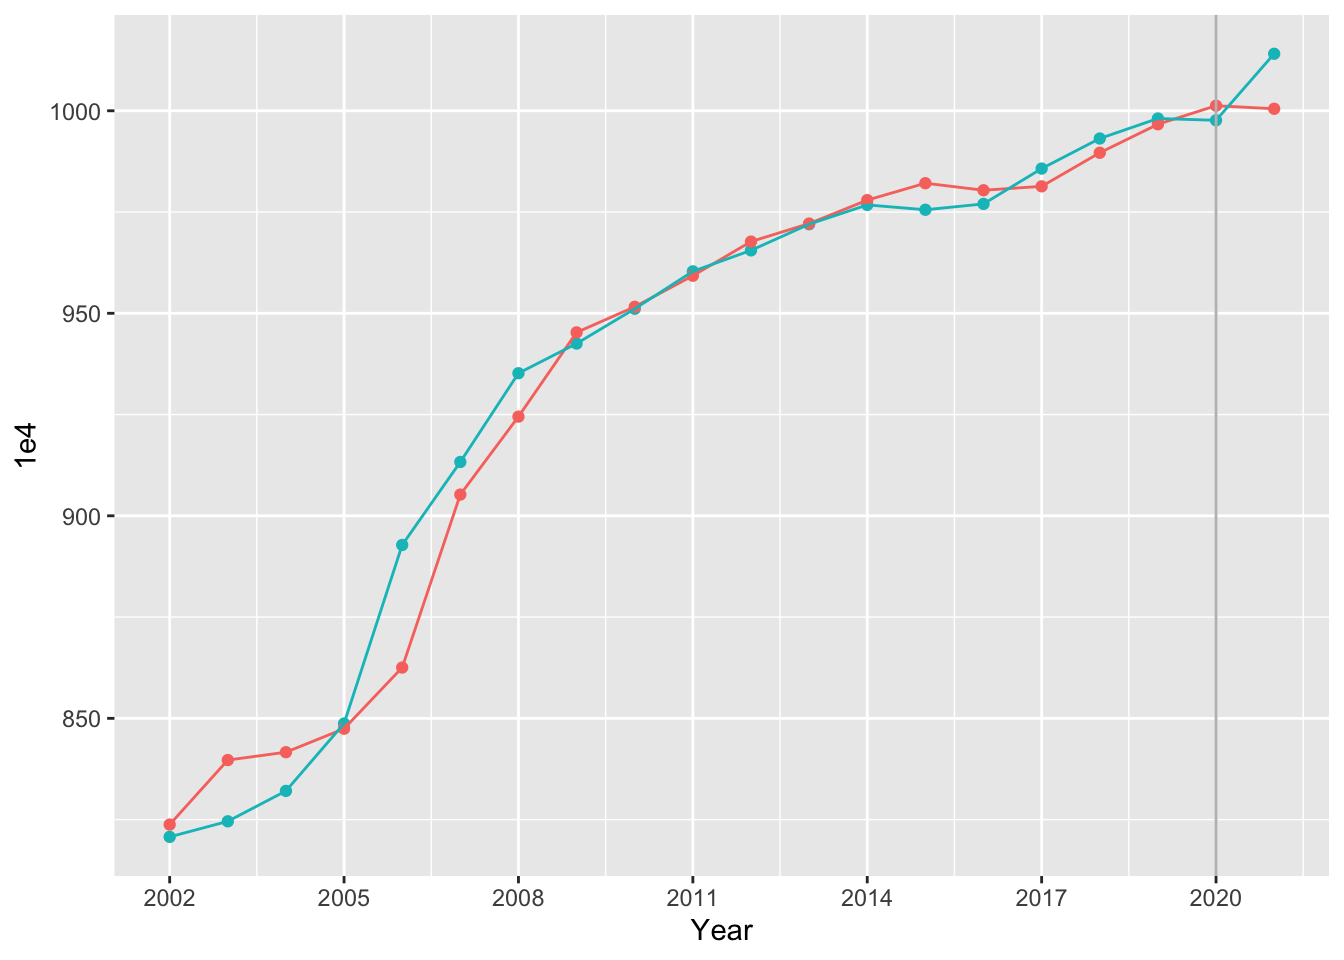
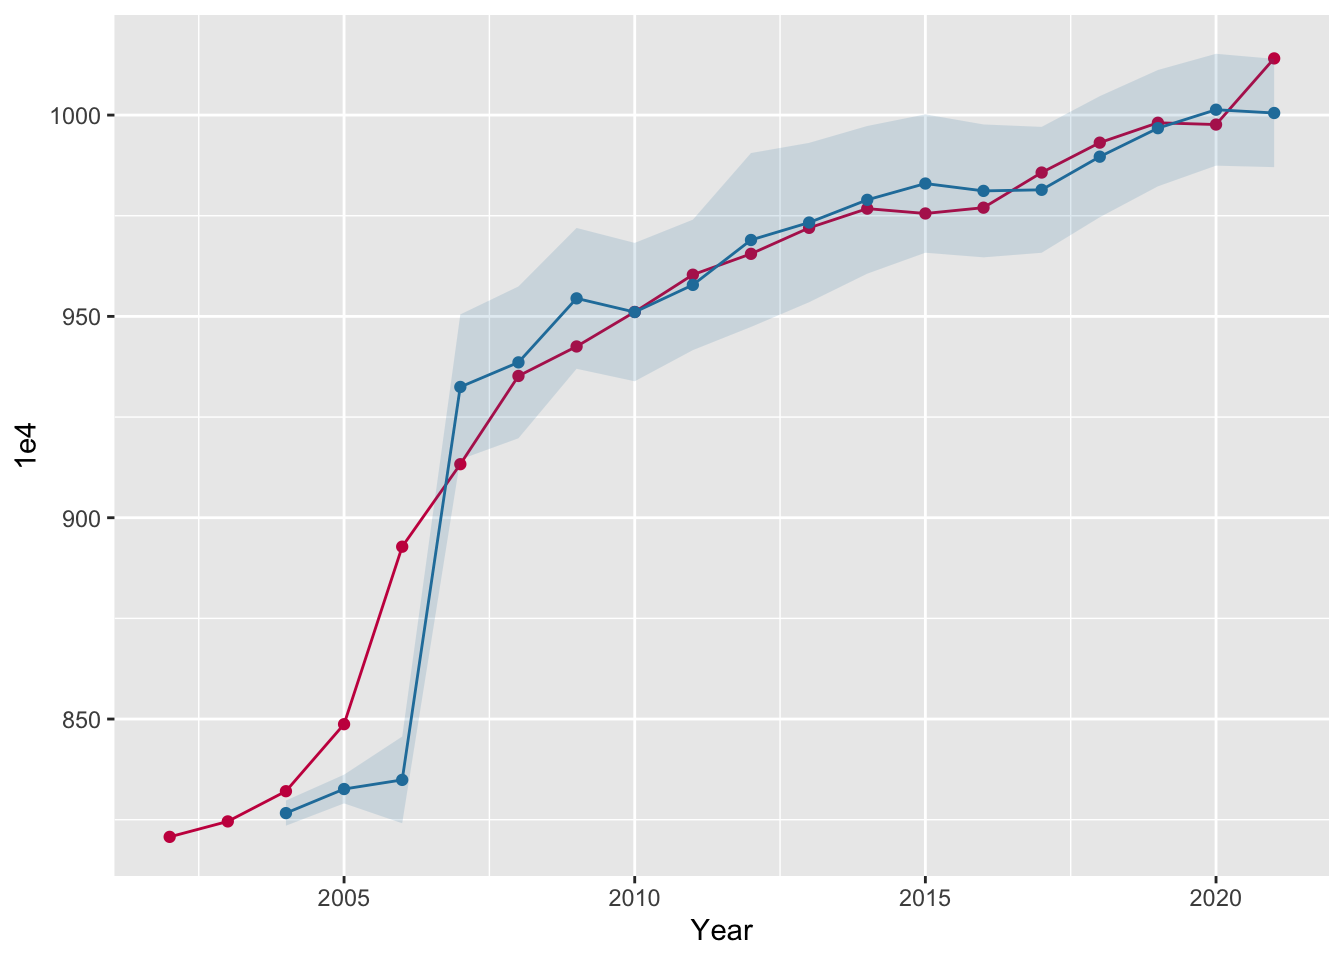
更正预测值
原预测值不是基于训练集，而是全部样本

diff --git a/content/post/2022-03-27-covid19/index.html b/content/post/2022-03-27-covid19/index.html
@@ -74,7 +74,7 @@ Figure 1: The reported deaths(from all causes)
   mutate_all(~dat[[20,&quot;death_num&quot;]] - .) %&gt;%
   flextable::flextable() %&gt;% 
   flextable::colformat_num(digits = 2) </code></pre>
-<template id="1f220c6f-f516-4fd0-94f4-a12f910b3691"><style>
+<template id="b929a59c-c3c0-4499-95e5-27eb7e52a0bf"><style>
 .tabwid table{
   border-spacing:0px !important;
   border-collapse:collapse;
@@ -108,12 +108,12 @@ Figure 1: The reported deaths(from all causes)
 .tabwid table tr {
 background-color: transparent;
 }
-</style><div class="tabwid"><style>.cl-ebe4d488{}.cl-ebd9f900{font-family:'Helvetica';font-size:11pt;font-weight:normal;font-style:normal;text-decoration:none;color:rgba(0, 0, 0, 1.00);background-color:transparent;}.cl-ebda1b92{margin:0;text-align:right;border-bottom: 0 solid rgba(0, 0, 0, 1.00);border-top: 0 solid rgba(0, 0, 0, 1.00);border-left: 0 solid rgba(0, 0, 0, 1.00);border-right: 0 solid rgba(0, 0, 0, 1.00);padding-bottom:5pt;padding-top:5pt;padding-left:5pt;padding-right:5pt;line-height: 1;background-color:transparent;}.cl-ebda64e4{width:54pt;background-color:transparent;vertical-align: middle;border-bottom: 2pt solid rgba(102, 102, 102, 1.00);border-top: 0 solid rgba(0, 0, 0, 1.00);border-left: 0 solid rgba(0, 0, 0, 1.00);border-right: 0 solid rgba(0, 0, 0, 1.00);margin-bottom:0;margin-top:0;margin-left:0;margin-right:0;}.cl-ebda6516{width:54pt;background-color:transparent;vertical-align: middle;border-bottom: 2pt solid rgba(102, 102, 102, 1.00);border-top: 2pt solid rgba(102, 102, 102, 1.00);border-left: 0 solid rgba(0, 0, 0, 1.00);border-right: 0 solid rgba(0, 0, 0, 1.00);margin-bottom:0;margin-top:0;margin-left:0;margin-right:0;}</style><table class='cl-ebe4d488'>
-<thead><tr style="overflow-wrap:break-word;"><td class="cl-ebda6516"><p class="cl-ebda1b92"><span class="cl-ebd9f900">Point Forecast</span></p></td><td class="cl-ebda6516"><p class="cl-ebda1b92"><span class="cl-ebd9f900">Lo 80</span></p></td><td class="cl-ebda6516"><p class="cl-ebda1b92"><span class="cl-ebd9f900">Hi 80</span></p></td><td class="cl-ebda6516"><p class="cl-ebda1b92"><span class="cl-ebd9f900">Lo 95</span></p></td><td class="cl-ebda6516"><p class="cl-ebda1b92"><span class="cl-ebd9f900">Hi 95</span></p></td></tr></thead><tbody><tr style="overflow-wrap:break-word;"><td class="cl-ebda64e4"><p class="cl-ebda1b92"><span class="cl-ebd9f900">13.55887</span></p></td><td class="cl-ebda64e4"><p class="cl-ebda1b92"><span class="cl-ebd9f900">27.00892</span></p></td><td class="cl-ebda64e4"><p class="cl-ebda1b92"><span class="cl-ebd9f900">0.10883</span></p></td><td class="cl-ebda64e4"><p class="cl-ebda1b92"><span class="cl-ebd9f900">34.12894</span></p></td><td class="cl-ebda64e4"><p class="cl-ebda1b92"><span class="cl-ebd9f900">-7.011193</span></p></td></tr></tbody></table></div></template>
-<div class="flextable-shadow-host" id="8beecf47-0300-465b-bab6-3299da01bc8c"></div>
+</style><div class="tabwid"><style>.cl-baf643e8{}.cl-bae7e26c{font-family:'Helvetica';font-size:11pt;font-weight:normal;font-style:normal;text-decoration:none;color:rgba(0, 0, 0, 1.00);background-color:transparent;}.cl-bae835c8{margin:0;text-align:right;border-bottom: 0 solid rgba(0, 0, 0, 1.00);border-top: 0 solid rgba(0, 0, 0, 1.00);border-left: 0 solid rgba(0, 0, 0, 1.00);border-right: 0 solid rgba(0, 0, 0, 1.00);padding-bottom:5pt;padding-top:5pt;padding-left:5pt;padding-right:5pt;line-height: 1;background-color:transparent;}.cl-bae88532{width:54pt;background-color:transparent;vertical-align: middle;border-bottom: 2pt solid rgba(102, 102, 102, 1.00);border-top: 0 solid rgba(0, 0, 0, 1.00);border-left: 0 solid rgba(0, 0, 0, 1.00);border-right: 0 solid rgba(0, 0, 0, 1.00);margin-bottom:0;margin-top:0;margin-left:0;margin-right:0;}.cl-bae88564{width:54pt;background-color:transparent;vertical-align: middle;border-bottom: 2pt solid rgba(102, 102, 102, 1.00);border-top: 2pt solid rgba(102, 102, 102, 1.00);border-left: 0 solid rgba(0, 0, 0, 1.00);border-right: 0 solid rgba(0, 0, 0, 1.00);margin-bottom:0;margin-top:0;margin-left:0;margin-right:0;}</style><table class='cl-baf643e8'>
+<thead><tr style="overflow-wrap:break-word;"><td class="cl-bae88564"><p class="cl-bae835c8"><span class="cl-bae7e26c">Point Forecast</span></p></td><td class="cl-bae88564"><p class="cl-bae835c8"><span class="cl-bae7e26c">Lo 80</span></p></td><td class="cl-bae88564"><p class="cl-bae835c8"><span class="cl-bae7e26c">Hi 80</span></p></td><td class="cl-bae88564"><p class="cl-bae835c8"><span class="cl-bae7e26c">Lo 95</span></p></td><td class="cl-bae88564"><p class="cl-bae835c8"><span class="cl-bae7e26c">Hi 95</span></p></td></tr></thead><tbody><tr style="overflow-wrap:break-word;"><td class="cl-bae88532"><p class="cl-bae835c8"><span class="cl-bae7e26c">13.55887</span></p></td><td class="cl-bae88532"><p class="cl-bae835c8"><span class="cl-bae7e26c">27.00892</span></p></td><td class="cl-bae88532"><p class="cl-bae835c8"><span class="cl-bae7e26c">0.10883</span></p></td><td class="cl-bae88532"><p class="cl-bae835c8"><span class="cl-bae7e26c">34.12894</span></p></td><td class="cl-bae88532"><p class="cl-bae835c8"><span class="cl-bae7e26c">-7.011193</span></p></td></tr></tbody></table></div></template>
+<div class="flextable-shadow-host" id="a7cf7923-a904-4f74-8993-d921c0ed07b6"></div>
 <script>
-var dest = document.getElementById("8beecf47-0300-465b-bab6-3299da01bc8c");
-var template = document.getElementById("1f220c6f-f516-4fd0-94f4-a12f910b3691");
+var dest = document.getElementById("a7cf7923-a904-4f74-8993-d921c0ed07b6");
+var template = document.getElementById("b929a59c-c3c0-4499-95e5-27eb7e52a0bf");
 var caption = template.content.querySelector("caption");
 if(caption) {
   caption.style.cssText = "display:block;text-align:center;";
@@ -129,32 +129,44 @@ fantome.appendChild(templateContent);
 </div>
 <div id="robustness" class="section level1">
 <h1>Robustness</h1>
-<p>Is our estimation of <em>expected deaths</em> precise enough? We can evaluate the forecast accuracy by looking whether the model fits well in previous years.</p>
-<p>In Figure 2, the red and blue curves represent expected and reported deaths respectively. The accuracy of our model appears pretty well since 2009 and it is exactly in 2021 a large residual pops out.</p>
-<pre class="r"><code>fit_exp &lt;- dat[,&quot;death_num&quot;] %&gt;%
-  ts(start = 2002, frequency = 1) %&gt;%
-  holt(damped=TRUE, phi = 0.9)
+<p>Is our estimation of <em>expected deaths</em> precise enough? We can evaluate the forecast accuracy by looking whether the exponential smoothing fits well in previous years.</p>
+<p>In Figure 2, the red and blue curves represent one-step-ahead expected deaths and reported deaths respectively. And the blue area shows a 0.8 confidence interval. The accuracy of our model appears pretty well since 2010 and it is exactly in 2021 a large residual pops out.</p>
+<pre class="r"><code>expected_deaths &lt;- tibble(`Point Forecast` = NA, `Lo 80` = NA, `Hi 80` = NA)
 
-fit_exp &lt;- fit_exp$fitted
+for (i in 1:18){
+  fit_exp &lt;- dat[,&quot;death_num&quot;] %&gt;%
+    ts(start = 2002) %&gt;%
+    window(end = 2002 + i) %&gt;%
+    # the parameters of smoothing methods will be estimated by minimizing SSE
+    holt(damped=TRUE, phi = 0.9, h = 1) %&gt;%
+    as.data.frame() %&gt;%
+    select(1:3) %&gt;%
+    rownames_to_column()
+  expected_deaths &lt;-  bind_rows(expected_deaths, fit_exp)
+}
 
-dat &lt;- dat %&gt;%
-  mutate(fit = as.vector(fit_exp))
+# the expected values from training set
+expected_deaths &lt;- expected_deaths %&gt;%
+  drop_na() %&gt;%
+  rename(year = rowname) %&gt;%
+  mutate(year = as.double(year))
 
+# draw
 dat %&gt;%
-  pivot_longer(cols = c(death_num, fit)) %&gt;%
-  mutate(name = recode(name, &quot;death_num&quot; = &quot;reported deaths&quot;, &quot;fit&quot; = &quot;expected deaths&quot;)) %&gt;%
-  ggplot(aes(x = year, y = value, color = name)) + 
-  geom_point() + 
-  geom_line() + 
+  select(year, death_num) %&gt;%
+  left_join(expected_deaths, by = &quot;year&quot;) %&gt;%
+  ggplot(aes(x = year)) +
+  geom_point(aes(y = death_num), color = &quot;#c90f4e&quot;) + 
+  geom_line(aes(y = death_num), color = &quot;#c90f4e&quot;) + 
+  geom_point(aes(y = `Point Forecast`), color = &quot;#257eaa&quot;) + 
+  geom_line(aes(y = `Point Forecast`), color = &quot;#257eaa&quot;) + 
+  geom_ribbon(aes(ymin=`Lo 80`, ymax = `Hi 80`), fill =&quot;#257eaa&quot;, alpha = .15) + 
   xlab(&quot;Year&quot;) +
-  ylab(&quot;1e4&quot;) +
-  guides(color = &quot;none&quot;) + 
-  scale_x_continuous(breaks = seq(2002, 2021, 3)) + 
-  geom_vline(xintercept = 2020, color = &quot;grey&quot;)</code></pre>
+  ylab(&quot;1e4&quot;)</code></pre>
 <div class="figure" style="text-align: center"><span style="display:block;" id="fig:unnamed-chunk-4"></span>
-<img src="{{< blogdown/postref >}}index_files/figure-html/unnamed-chunk-4-1.png" alt="Reported deaths and expected deaths" width="672" />
+<img src="{{< blogdown/postref >}}index_files/figure-html/unnamed-chunk-4-1.png" alt="Reported deaths and one-step-ahead expected deaths" width="672" />
 <p class="caption">
-Figure 2: Reported deaths and expected deaths
+Figure 2: Reported deaths and one-step-ahead expected deaths
 </p>
 </div>
 </div>
